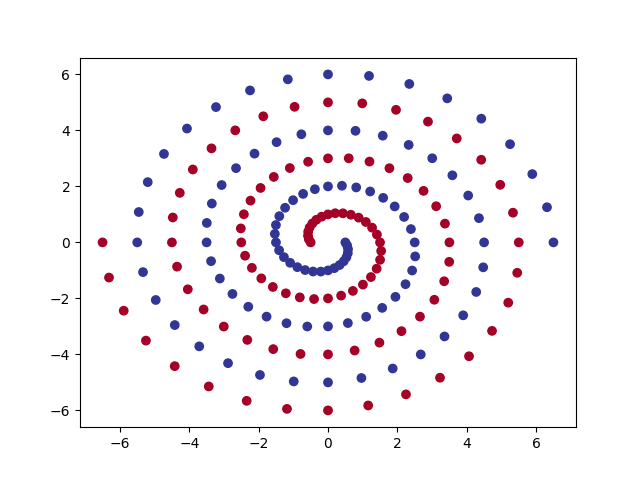
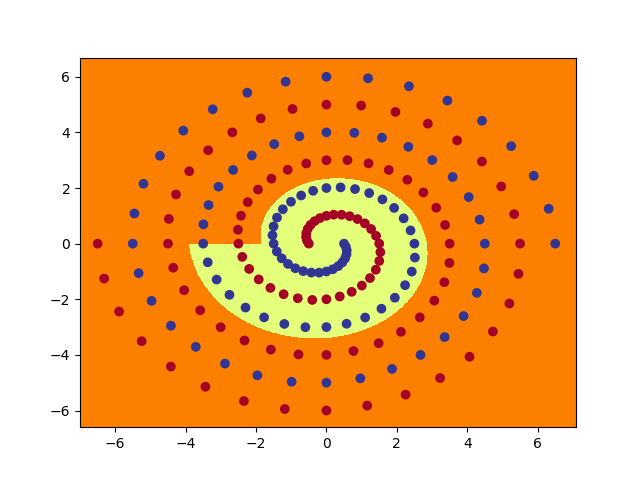
Part2Question5Result

diff --git a/Assignment1/hw1/spiral.py b/Assignment1/hw1/spiral.py
@@ -56,7 +56,7 @@ class PolarNet(torch.nn.Module):
         output_model1 = self.model1(input)
         
         # Answer of Q5
-        self.Q5Result = output_model1
+        self.h1 = output_model1
 
         final_output = self.model2(output_model1)
 
@@ -100,10 +100,39 @@ class RawNet(torch.nn.Module):
         output_model2 = self.model2_rawNet(output_model1)
         self.h2 = output_model2
         final_output = self.model3_rawNet(output_model2)
+        
+        # seconde way writing this code
+        # input = self.layer1(input)
+        # input = self.tanh(input)
+        # self.h1 = input
+        # input = self.layer2(input)
+        # input = self.tanh(input)
+        # self.h2 = input
+        # input = self.layer3(input)
+        # final_output = self.sigmoid(input)
 
         # CHANGE CODE HERE
         return final_output
 
 def graph_hidden(net, layer, node):
-    plt.clf()
     # INSERT CODE HERE
+    xrange = torch.arange(start=-7,end=7.1,step=0.01,dtype=torch.float32)
+    yrange = torch.arange(start=-6.6,end=6.7,step=0.01,dtype=torch.float32)
+    xcoord = xrange.repeat(yrange.size()[0])
+    ycoord = torch.repeat_interleave(yrange, xrange.size()[0], dim=0)
+    grid = torch.cat((xcoord.unsqueeze(1),ycoord.unsqueeze(1)),1)
+
+    with torch.no_grad(): # suppress updating of gradients
+        net.eval()        # toggle batch norm, dropout
+        output = net(grid)
+        net.train() # toggle batch norm, dropout back again
+        if(layer == 1):
+            mid_layer = net.h1
+        elif(layer == 2):
+            mid_layer = net.h2
+        mid_layer_2_filtered = mid_layer[:,node]
+        pred = (mid_layer_2_filtered >= 0).float()
+
+        # plot function computed by model
+        plt.clf()
+        plt.pcolormesh(xrange,yrange,pred.cpu().view(yrange.size()[0],xrange.size()[0]), cmap='Wistia')
